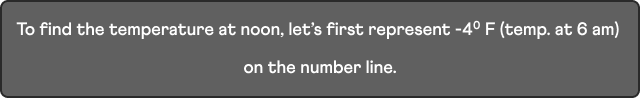
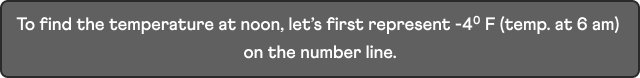
Review chnages

diff --git a/LoadScene.js b/LoadScene.js
@@ -72,7 +72,8 @@ class LoadScene extends Phaser.Scene {
           Phaser.Animations.Events.ANIMATION_COMPLETE,
           function () {
             this.scene.stop("LoadScene");
-            this.scene.start("StartScene");
+            this.scene.launch("GameScene");
+            this.scene.launch("HintScene");
           },
           this
         );
@@ -84,15 +85,6 @@ class LoadScene extends Phaser.Scene {
   audioLoad() {
     //audio loaded here
 
-    this.load.audio("bgMusic", "assets/Audio/mysterious-cave-ambiance-1.mp3");
-    this.load.audio("doorUnlock", "assets/Audio/Automatic-door-unlock-slide-open.mp3");
-    this.load.audio("logoReveal", "assets/Audio/Beauty-intro-reveal-logo-2.mp3");
-    this.load.audio("keyTurn", "assets/Audio/Doorknob-unlock.mp3");
-    this.load.audio("correctAnswer", "assets/Audio/Feedback-correct.mp3");
-    this.load.audio("incorrectAnswer", "assets/Audio/Error-prompt-alert.mp3");
-    this.load.audio("chestOpen", "assets/Audio/Wood-chest-cover-opening.mp3");
-    this.load.audio("gemReveal", "assets/Audio/New-level-up-2-upgrade-1up-videogame-upgrade-1up-videogame.mp3");
-    this.load.audio("confetti", "assets/Audio/confetti.wav");
   }
 
   endSceneAssetsLoad() {
@@ -104,9 +96,61 @@ class LoadScene extends Phaser.Scene {
   startSceneAssetsLoad() {
     this.load.image("play_button", "assets/StartSceneAssets/play_button.png");
     this.load.image("play_button_on", "assets/StartSceneAssets/play_button_on.png");
-    this.load.image("Background", "assets/StartSceneAssets/Background.png");
-    this.load.image("box", "assets/StartSceneAssets/box.png");
-    this.load.image("web", "assets/StartSceneAssets/web.png");
+
+    
+    this.load.image("overlay", "assets/GameSceneAssets/overlay.png");
+
+    this.load.image("hint", "assets/GameSceneAssets/hint.png");
+    this.load.image("hint2", "assets/GameSceneAssets/hint2.png");
+    this.load.image("hintClose", "assets/GameSceneAssets/hintClose.png");
+
+    this.load.plugin('rexroundrectangleplugin', 'https://raw.githubusercontent.com/rexrainbow/phaser3-rex-notes/master/dist/rexroundrectangleplugin.min.js', true);
+    this.load.plugin('rexflashplugin', 'https://raw.githubusercontent.com/rexrainbow/phaser3-rex-notes/master/dist/rexflashplugin.min.js', true);
+    this.load.image("bg", "assets/GameSceneAssets/bg.png");
+    this.load.atlas('arrowBreatheAnim','/assets/GameSceneAssets/arrowBreatheAnim.png','/assets/GameSceneAssets/arrowBreatheAnim.json')
+this.load.atlas('arrowRevealAnim','/assets/GameSceneAssets/arrowRevealAnim.png','/assets/GameSceneAssets/arrowRevealAnim.json')
+this.load.atlas("endConfetti","assets/GameSceneAssets/checkConfettiAnim.png","assets/GameSceneAssets/checkConfettiAnim.json");
+
+this.load.image("wrong", "assets/GameSceneAssets/wrong.png");
+this.load.image("correct", "assets/GameSceneAssets/correct.png");
+
+this.load.image("rightText","assets/GameSceneAssets/rightText.png")
+
+this.load.image("rightText_on","assets/GameSceneAssets/rightText_on.png")
+this.load.image("leftText","assets/GameSceneAssets/leftText.png")
+this.load.image("leftText_on","assets/GameSceneAssets/leftText_on.png")    
+
+    this.load.image("mhand", "assets/GameSceneAssets/mhand.png");
+    this.load.image("hhand", "assets/GameSceneAssets/hhand.png");
+    for(let i=1;i<9;i++){
+    this.load.image("plus"+i, "assets/GameSceneAssets/"+i+".png");
+    }
+    for(let i=1;i<9;i++){
+      this.load.image("minus"+i, "assets/GameSceneAssets/-"+i+".png");
+      }
+
+    this.load.image("towers", "assets/GameSceneAssets/towers.png");
+    this.load.image("sun1", "assets/GameSceneAssets/sun1.png");
+    this.load.image("sun2", "assets/GameSceneAssets/sun2.png");
+    this.load.image("cloud1", "assets/GameSceneAssets/cloud1.png");
+    this.load.image("cloud2", "assets/GameSceneAssets/cloud2.png");
+    this.load.image("cloud3", "assets/GameSceneAssets/cloud3.png");    
+
+    this.load.image("Input-1", "assets/GameSceneAssets/Input-1.png");
+    this.load.image("Input-2", "assets/GameSceneAssets/Input-2.png");
+    this.load.image("Input-3", "assets/GameSceneAssets/Input-3.png");
+    this.load.image("Input-4", "assets/GameSceneAssets/Input-4.png");
+    this.load.image('cursor','/assets/GameSceneAssets/cursor.png');
+    this.load.image('meter','/assets/GameSceneAssets/meter.png');
+    this.load.image('marker','/assets/GameSceneAssets/marker.png');
+
+    this.load.image("line1", "assets/GameSceneAssets/line1.png");
+    this.load.image("line2", "assets/GameSceneAssets/line2.png");
+    this.load.image("line3", "assets/GameSceneAssets/line3.png");
+    this.load.image("line4", "assets/GameSceneAssets/line4.png");
+    this.load.image("line5", "assets/GameSceneAssets/line5.png");
+    this.load.image("line6", "assets/GameSceneAssets/line6.png");
+    this.load.image("line7", "assets/GameSceneAssets/line7.png");
 
   }
 

diff --git a/GameScene.js b/GameScene.js
@@ -17,58 +17,11 @@ class GameScene extends Phaser.Scene {
   }
 
   preload() {
-    this.load.plugin('rexroundrectangleplugin', 'https://raw.githubusercontent.com/rexrainbow/phaser3-rex-notes/master/dist/rexroundrectangleplugin.min.js', true);
-    this.load.plugin('rexflashplugin', 'https://raw.githubusercontent.com/rexrainbow/phaser3-rex-notes/master/dist/rexflashplugin.min.js', true);
-    this.load.image("bg", "assets/GameSceneAssets/bg.png");
-    this.load.atlas('arrowBreatheAnim','/assets/GameSceneAssets/arrowBreatheAnim.png','/assets/GameSceneAssets/arrowBreatheAnim.json')
-this.load.atlas('arrowRevealAnim','/assets/GameSceneAssets/arrowRevealAnim.png','/assets/GameSceneAssets/arrowRevealAnim.json')
-this.load.atlas("endConfetti","assets/GameSceneAssets/checkConfettiAnim.png","assets/GameSceneAssets/checkConfettiAnim.json");
-
-this.load.image("wrong", "assets/GameSceneAssets/wrong.png");
-this.load.image("correct", "assets/GameSceneAssets/correct.png");
-
-this.load.image("rightText","assets/GameSceneAssets/rightText.png")
-
-this.load.image("rightText_on","assets/GameSceneAssets/rightText_on.png")
-this.load.image("leftText","assets/GameSceneAssets/leftText.png")
-this.load.image("leftText_on","assets/GameSceneAssets/leftText_on.png")    
-
-    this.load.image("mhand", "assets/GameSceneAssets/mhand.png");
-    this.load.image("hhand", "assets/GameSceneAssets/hhand.png");
-    for(let i=1;i<9;i++){
-    this.load.image("plus"+i, "assets/GameSceneAssets/"+i+".png");
-    }
-    for(let i=1;i<9;i++){
-      this.load.image("minus"+i, "assets/GameSceneAssets/-"+i+".png");
-      }
-
-    this.load.image("towers", "assets/GameSceneAssets/towers.png");
-    this.load.image("sun1", "assets/GameSceneAssets/sun1.png");
-    this.load.image("sun2", "assets/GameSceneAssets/sun2.png");
-    this.load.image("cloud1", "assets/GameSceneAssets/cloud1.png");
-    this.load.image("cloud2", "assets/GameSceneAssets/cloud2.png");
-    this.load.image("cloud3", "assets/GameSceneAssets/cloud3.png");    
-
-    this.load.image("Input-1", "assets/GameSceneAssets/Input-1.png");
-    this.load.image("Input-2", "assets/GameSceneAssets/Input-2.png");
-    this.load.image("Input-3", "assets/GameSceneAssets/Input-3.png");
-    this.load.image("Input-4", "assets/GameSceneAssets/Input-4.png");
-    this.load.image('cursor','/assets/GameSceneAssets/cursor.png');
-    this.load.image('meter','/assets/GameSceneAssets/meter.png');
-    this.load.image('marker','/assets/GameSceneAssets/marker.png');
-
-    this.load.image("line1", "assets/GameSceneAssets/line1.png");
-    this.load.image("line2", "assets/GameSceneAssets/line2.png");
-    this.load.image("line3", "assets/GameSceneAssets/line3.png");
-    this.load.image("line4", "assets/GameSceneAssets/line4.png");
-    this.load.image("line5", "assets/GameSceneAssets/line5.png");
-    this.load.image("line6", "assets/GameSceneAssets/line6.png");
-    this.load.image("line7", "assets/GameSceneAssets/line7.png");
   }
 
   create() {
 
-    this.scene.launch("HintScene")
+    //this.scene.launch("HintScene")
 
     this.anims.create({
       key: 'endConfetti',
@@ -264,6 +217,8 @@ this.load.image("leftText_on","assets/GameSceneAssets/leftText_on.png")
       }
       else{
 
+        //gameObject.x = 405.2
+
       }
 
       rect.setSize(405-gameObject.x,10)//.setFillStyle(	0x33cc66,1);
@@ -361,12 +316,12 @@ if(textEntry.text==''){enableflash = true
       targets:this.reply,
         alpha:0,
        ease: "sine.easeOut",
-       delay:2000,
+       delay:1000,
         duration: 400,
       repeat: 0,
       onComplete:()=>{
 
-        this.rightText.setTexture('rightText').setInteractive()
+        //this.rightText.setTexture('rightText').setInteractive()
         this.leftText.setInteractive()
       }
       });
@@ -462,9 +417,9 @@ if(textEntry.text==''){enableflash = true
     }
 
     else if(level==2){
-      this.tweens.timeScale =15;
+      this.tweens.timeScale =20;
 
-        this.sunrise = 6000*this.tweens.timeScale;
+        this.sunrise = 3000*this.tweens.timeScale;
 
 
         this.tweens.add({

diff --git a/HintScene.js b/HintScene.js
@@ -8,11 +8,6 @@ class HintScene extends Phaser.Scene {
 
   preload() {
 
-    this.load.image("overlay", "assets/GameSceneAssets/overlay.png");
-
-    this.load.image("hint", "assets/GameSceneAssets/hint.png");
-    this.load.image("hint2", "assets/GameSceneAssets/hint2.png");
-    this.load.image("hintClose", "assets/GameSceneAssets/hintClose.png");
   }
 
   create() {
@@ -21,7 +16,7 @@ class HintScene extends Phaser.Scene {
 
     this.hint = this.add.image(400,100,'hint').setOrigin(0.5,0).setAlpha(0)
 
-    this.hintClose = this.add.image(586,95,'hintClose').setOrigin(0).setAlpha(0).setInteractive({ cursor: "pointer" });
+    this.hintClose = this.add.image(586,105,'hintClose').setOrigin(0).setAlpha(0).setInteractive({ cursor: "pointer" });
 
     this.hintClose.on("pointerdown",
     ()=>{ 
@@ -48,6 +43,7 @@ class HintScene extends Phaser.Scene {
         onComplete:()=>{
           if(level==5){
             this.hint.setTexture('hint2')
+            this.hintClose.y = 95
           }
           this.tweens.add({
             targets:[this.hint,this.hintClose],

diff --git a/Game.js b/Game.js
@@ -13,7 +13,7 @@ const config = {
     default: "arcade",
   },
   //scene: [LoadScene, StartScene, GameScene, EndScene],
-  scene: [GameScene,HintScene, EndScene,LoadScene, StartScene ],
+  scene: [LoadScene,GameScene,HintScene, EndScene, StartScene ],
   audio: {
     disableWebAudio: true,
   },

diff --git a/index.html b/index.html
@@ -14,7 +14,7 @@
 <style media='screen' type='text/css'>
     @font-face {
       font-family: font1;
-      src: url('assets/Fonts/Athletics Cuemath/Athletics Black/Athletics-Black.otf');
+      src: url('assets/Fonts/Athletics Cuemath/Athletics Bold/Athletics-Bold.otf');
     }
 </style>
 
